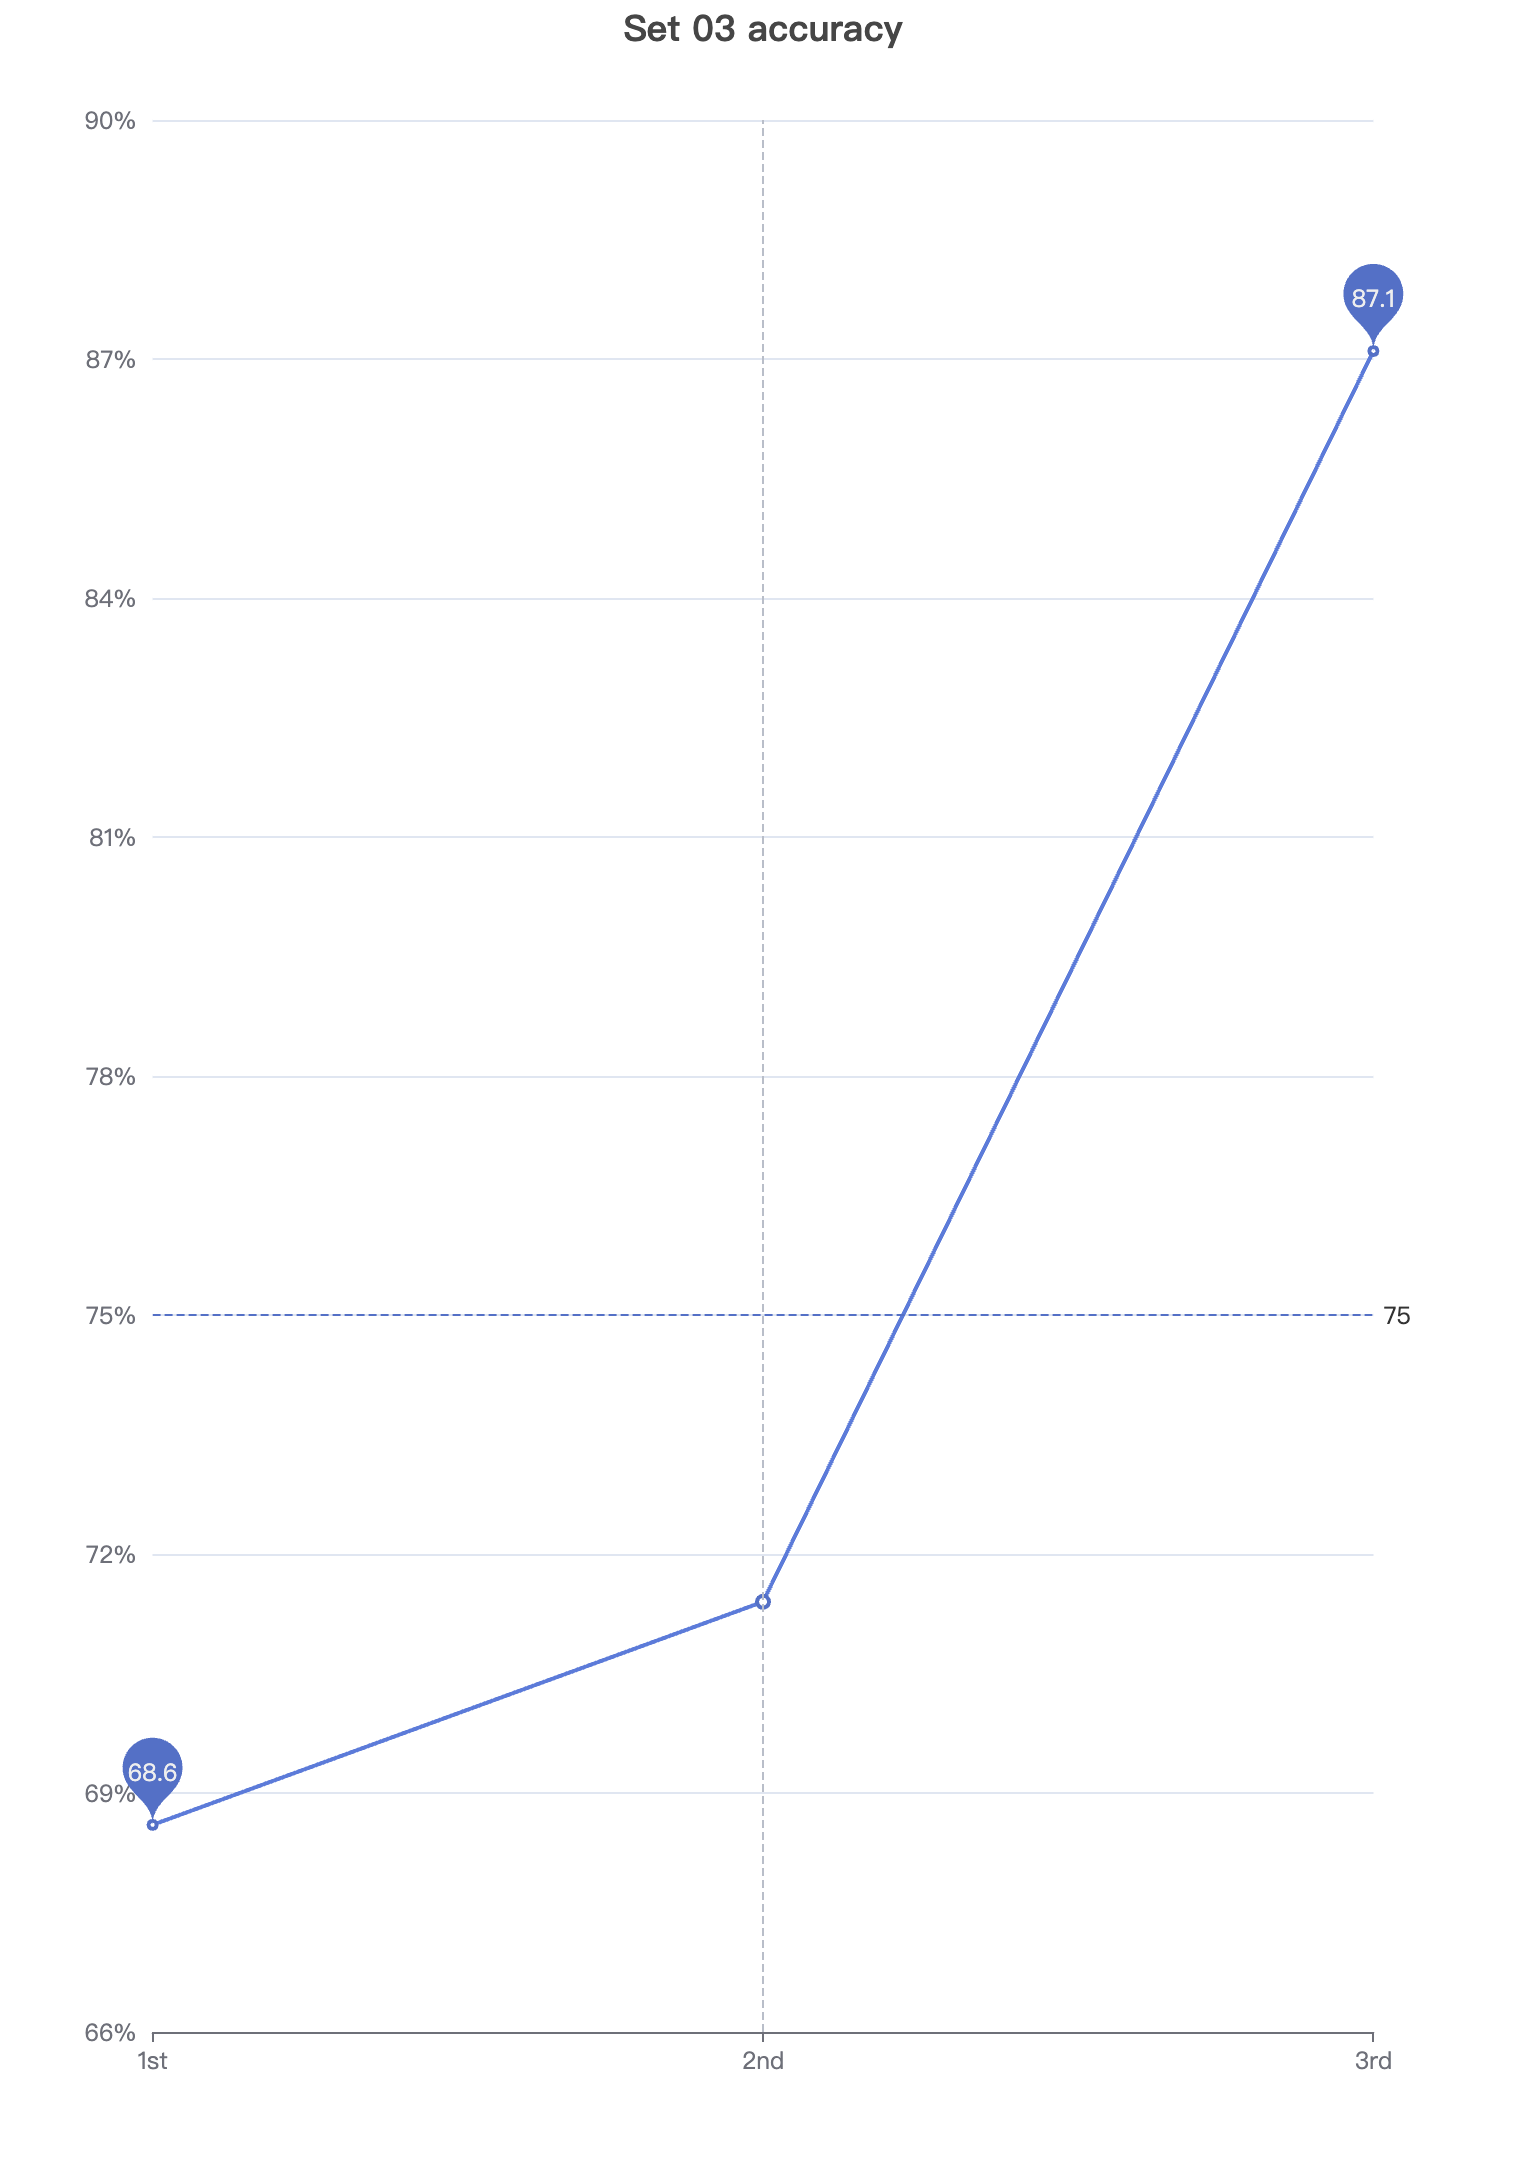
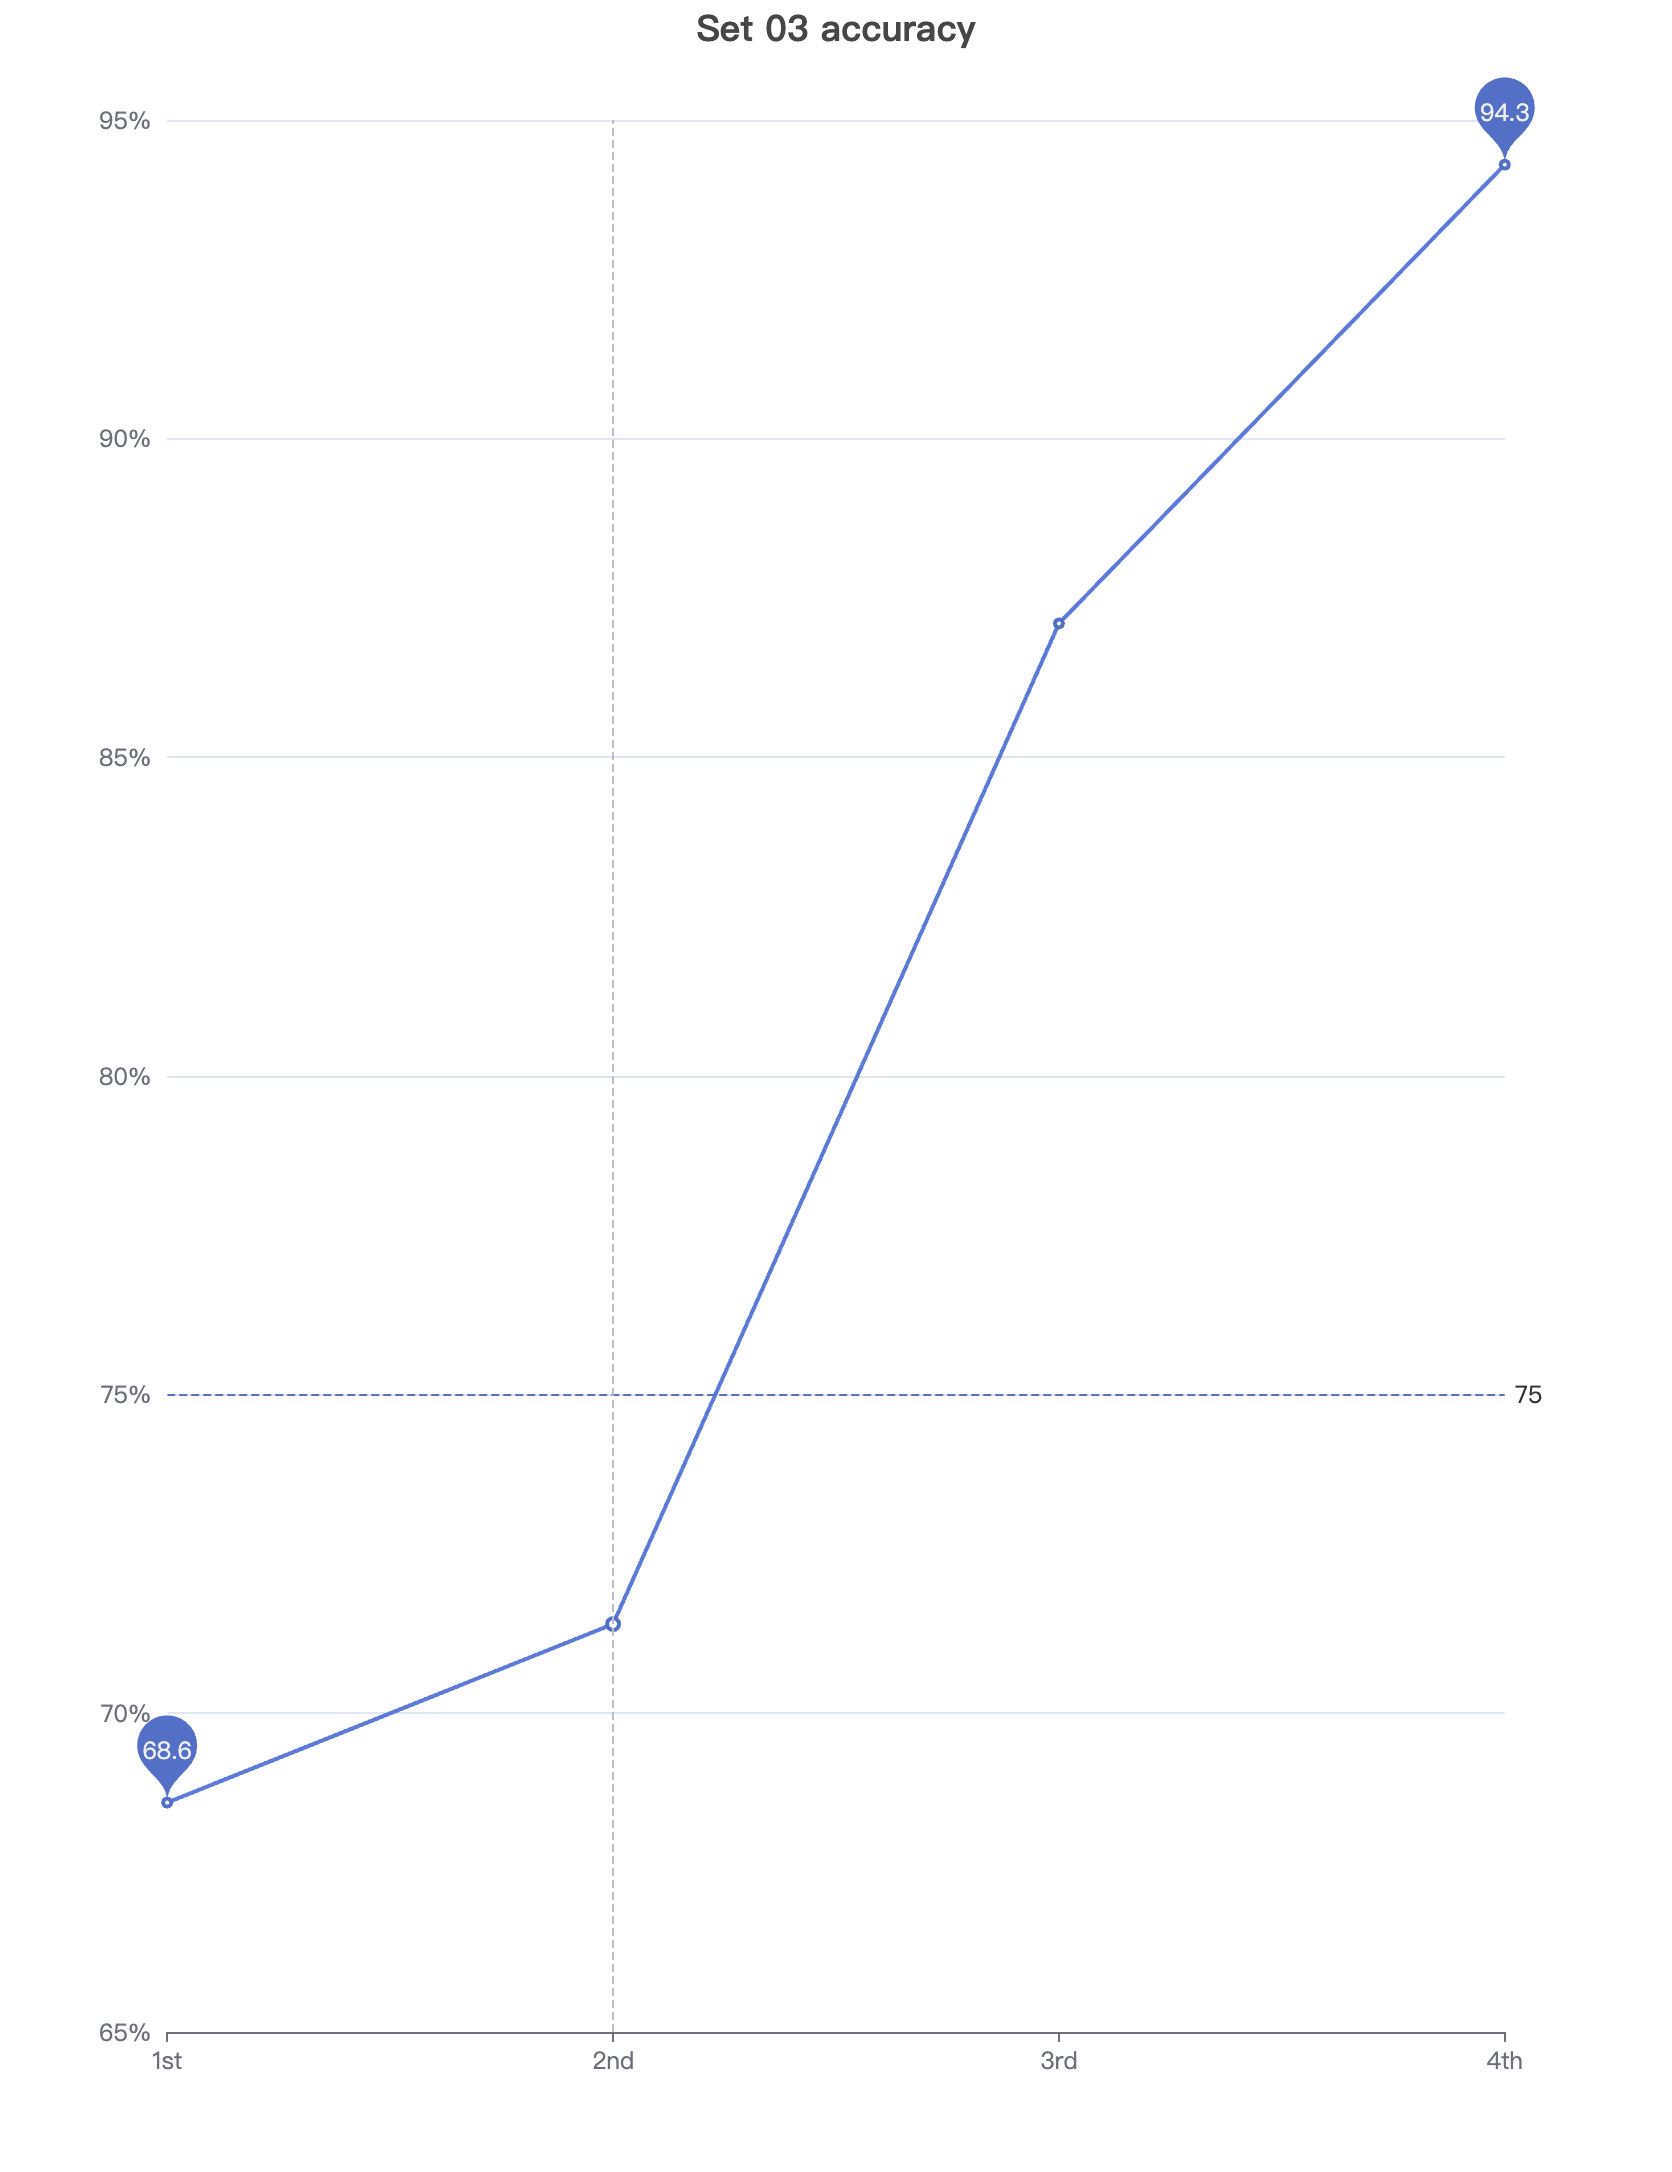
[update] add test result of set 03

diff --git a/src/wa.js b/src/wa.js
@@ -132,21 +132,21 @@ option = {
     {
       dimensions: ['number', 'frequent'],
       source: [
-        ['01', 2],
+        ['01', 3],
         ['05', 2],
-        ['07', 1],
+        ['07', 2],
         ['09', 2],
         ['10', 1],
         ['11', 1],
         ['12', 3],
-        ['13', 2],
+        ['13', 3],
         ['14', 1],
         ['16', 1],
         ['18', 1],
         ['21', 2],
         ['23', 1],
         ['24', 1],
-        ['25', 2],
+        ['25', 3],
         ['26', 1],
         ['29', 1],
         ['30', 2],

diff --git a/src/accuracy.js b/src/accuracy.js
@@ -92,7 +92,7 @@ option = {
   xAxis: {
     type: 'category',
     boundaryGap: false,
-    data: ['1st', '2nd', '3rd'],
+    data: ['1st', '2nd', '3rd', '4th'],
   },
   yAxis: {
     type: 'value',
@@ -103,7 +103,7 @@ option = {
   },
   series: [
     {
-      data: [68.6, 71.4, 87.1],
+      data: [68.6, 71.4, 87.1, 94.3],
       type: 'line',
       markLine: {
         symbol: ['none', 'none'],
